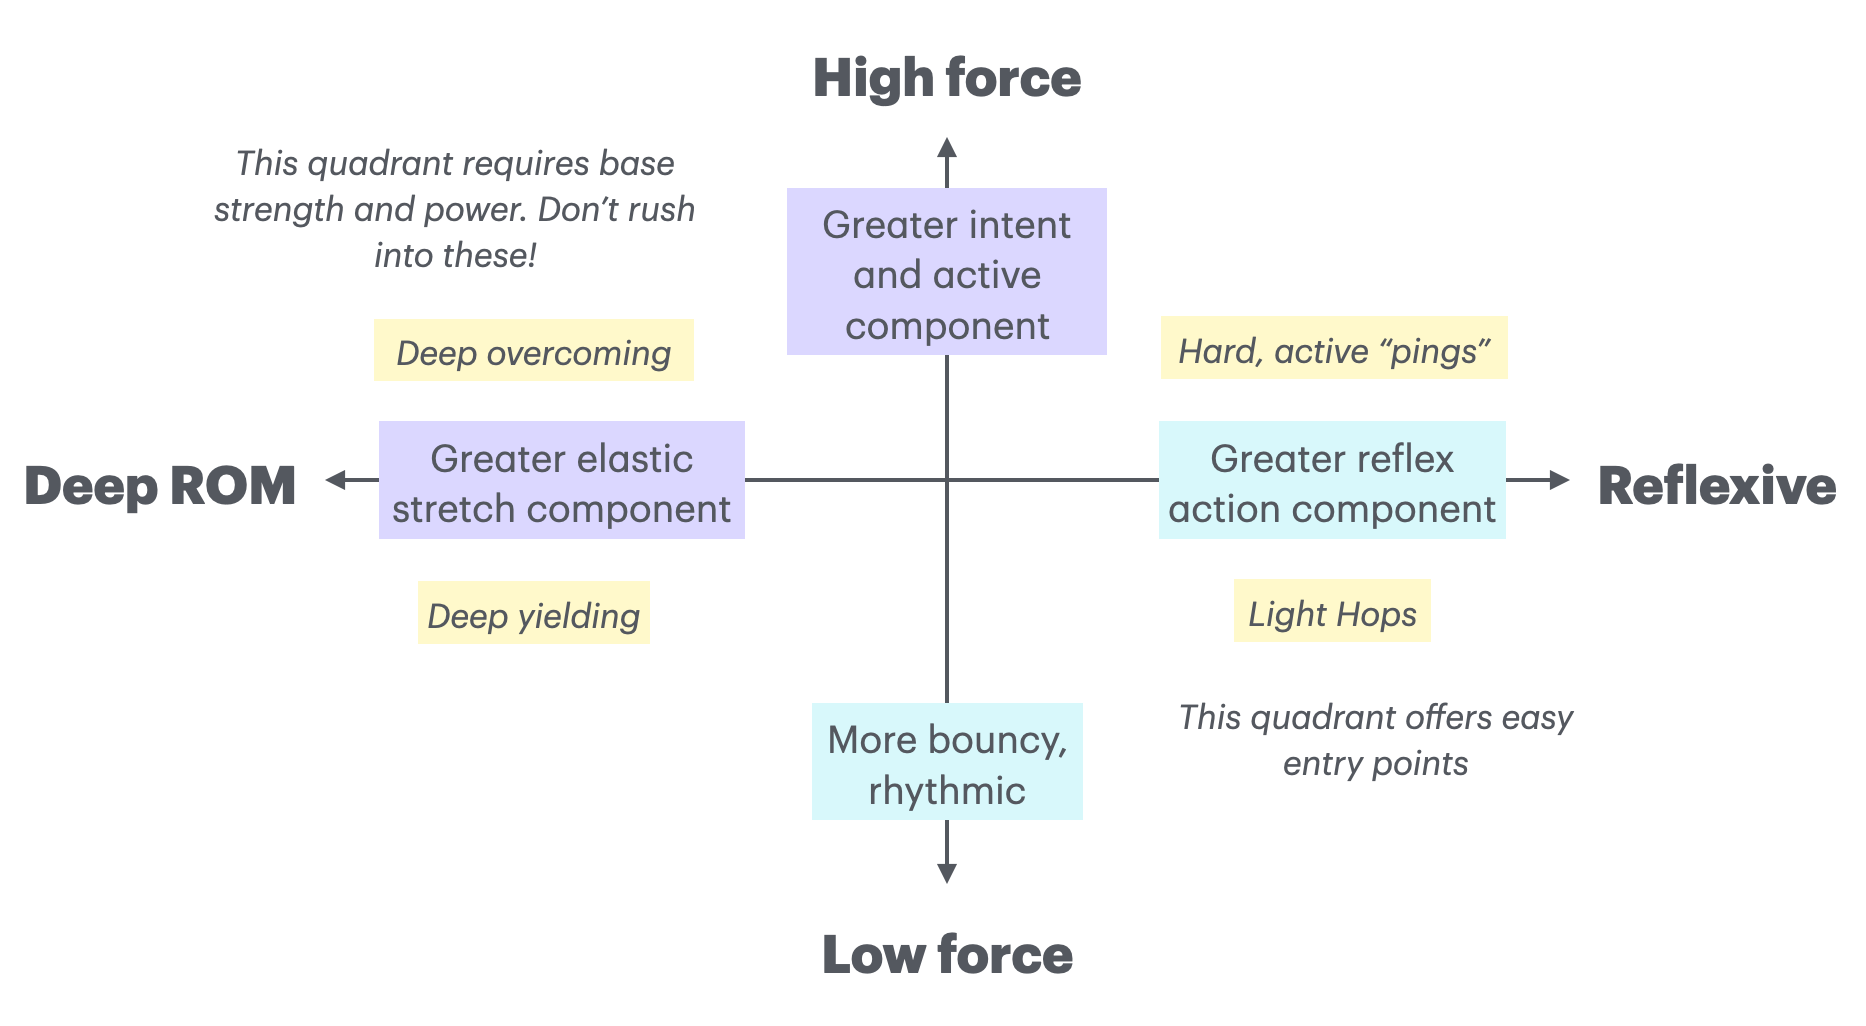
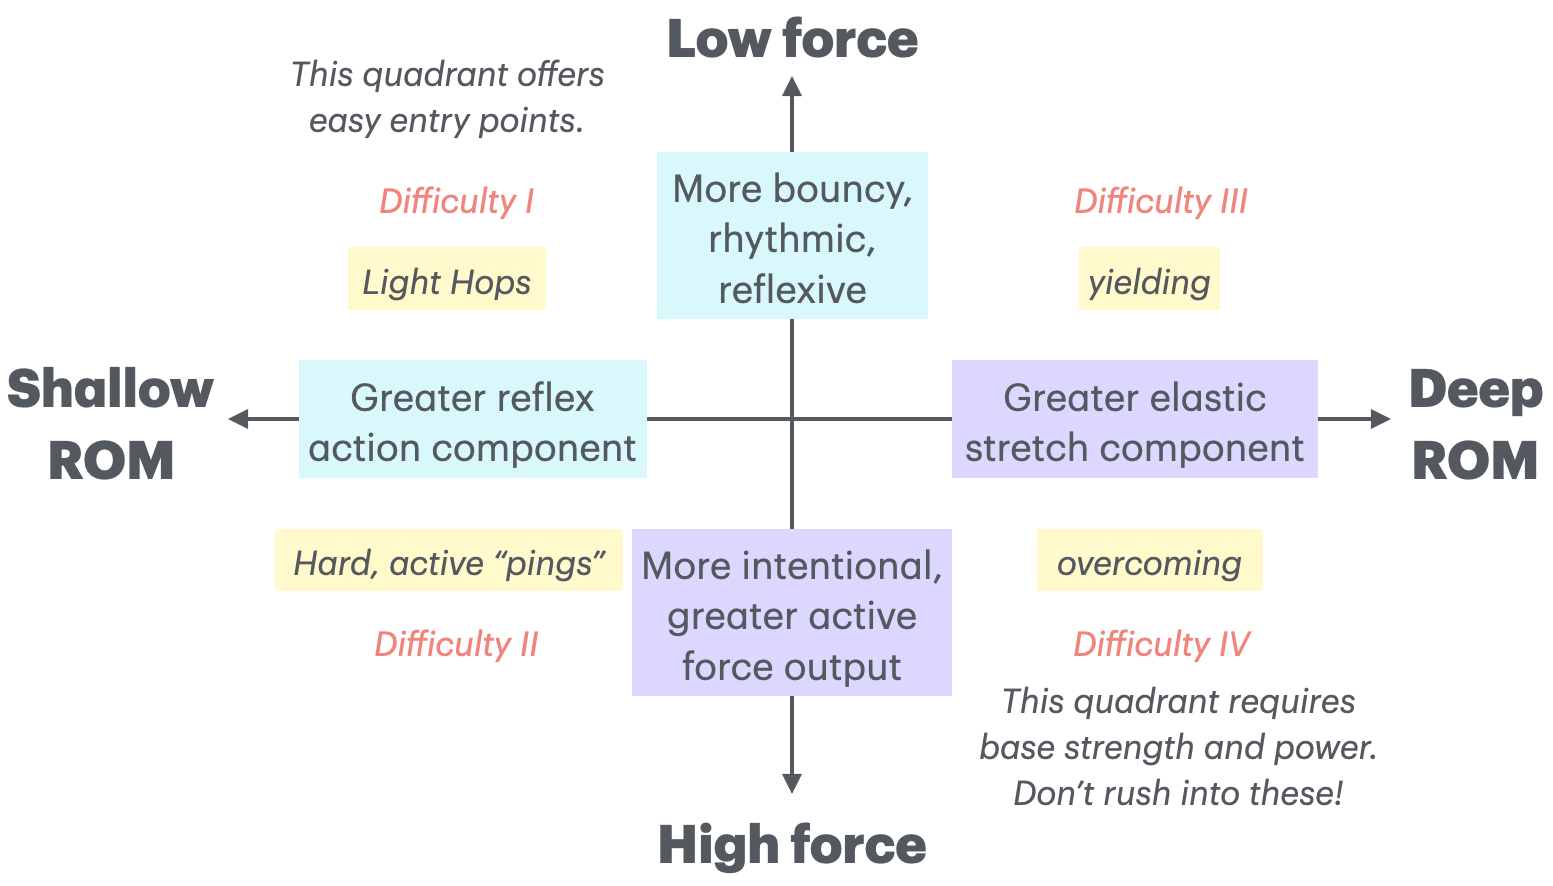
restructured intro, updated plyometrics section

diff --git a/docs/posts/training-foundations/index.html b/docs/posts/training-foundations/index.html
@@ -162,7 +162,7 @@ div.csl-indent {
     <div>
     <div class="quarto-title-meta-heading">Modified</div>
     <div class="quarto-title-meta-contents">
-      <p class="date-modified">January 21, 2025</p>
+      <p class="date-modified">February 5, 2025</p>
     </div>
   </div>
     
@@ -181,7 +181,24 @@ Include an interactive plot with plyometric exercises. Use altair with hyperlink
 <style>
     .concept { background-color: #FFEE70; }
 </style>
-<p>Here I sketch out conceptual building blocks to reason about physical training and construct a basic training plan. These are largely based on my own experience, a standard reference manual for strength and conditioning coaches <span class="citation" data-cites="haff2015essentials">(<a href="#ref-haff2015essentials" role="doc-biblioref">Haff and Triplett 2015</a>)</span>, and a handful of review papers. There are 3 main components for this: cardiovascular-, resistance-, and plyometric training.</p>
+<section id="introduction" class="level2 unnumbered">
+<h2 class="unnumbered anchored" data-anchor-id="introduction">Introduction</h2>
+<p>Exercises are tools to differentially stimulate physiological systems, with an end goal of inducing beneficial adaptations in those systems. As a crude engineering analogy, one can think of physical training as a way to improve capacity, increase co-ordination, and ease bottlenecks in various physiological components and systems:</p>
+<ul>
+<li>hardware (muscle fibers, connective tissue, bone etc.),</li>
+<li>software (nervous system control),</li>
+<li>local fuel storage (intra-cellular stores),</li>
+<li>global fuel storage (adipose tissue, liver etc.),</li>
+<li>systems for oxygen delivery, temperature control, waste clearance etc. (cardio-vascular system, lymphatic system etc.).</li>
+</ul>
+<p>Such adaptations are are reflected in (but not restricted to) performance at specific tasks (e.g.&nbsp;running 400 meters, maximum amount that can be lifted in a squat, etc.).</p>
+<p>My motivation here is general health. When I started thinking about this <a href="https://rhngla.substack.com/p/fitness">a couple of years ago</a>, I didn’t have clear ideas for questions like:</p>
+<ol type="1">
+<li>what exercise to do?</li>
+<li>how much, how often etc.?</li>
+</ol>
+<p>I now have some understanding around these questions. These are largely based on my own experience, a standard reference manual for strength and conditioning coaches <span class="citation" data-cites="haff2015essentials">(<a href="#ref-haff2015essentials" role="doc-biblioref">Haff and Triplett 2015</a>)</span>, and a handful of review papers.</p>
+<p>We’ll break this down into a discussion of 3 main components for this: cardiovascular-, resistance-, and plyometric training.</p>
 <div class="callout callout-style-simple callout-note no-icon">
 <div class="callout-body d-flex">
 <div class="callout-icon-container">
@@ -192,6 +209,7 @@ Include an interactive plot with plyometric exercises. Use altair with hyperlink
 </div>
 </div>
 </div>
+</section>
 <section id="general-notes" class="level2 unnumbered">
 <h2 class="unnumbered anchored" data-anchor-id="general-notes">General notes</h2>
 <ul>
@@ -360,7 +378,7 @@ Examples for different ability levels:
 <ul>
 <li>These movement patterns cover a broad range of muscle groups.</li>
 <li><span class="concept">Prime mover</span> (also known as <span class="concept">agonist</span>) muscle groups across these movements are largely non-overlapping.</li>
-<li>So muscule fatigue from one exercise is less likely to interfere with another exercise that preferentially stimulates a different muscle group.</li>
+<li>So muscle fatigue from one exercise is less likely to interfere with another exercise that preferentially stimulates a different muscle group.</li>
 <li>The ordering of exercise within a session is not too critical for a basic training plan; I personally prefer to do lower body exercises first (squats and hinge patterns here) to prioritise stimulating the bigger muscle groups while my nervous system feels more fresh.</li>
 </ul>
 </section>
@@ -493,7 +511,7 @@ Table&nbsp;2: There is a rough equivalence between Rating of perceived exertion 
 <img src="plyo-classification.png" class="img-fluid figure-img">
 </div>
 <figcaption class="quarto-float-caption-bottom quarto-float-caption quarto-float-fig" id="fig-plyo-classification-caption-0ceaefa1-69ba-4598-a22c-09a6ac19f8ca">
-Figure&nbsp;2: <strong>Plyometric exercise classification:</strong> One can attempt to place exercises on this axis. For example, quick and light <a href="https://www.youtube.com/watch?v=YqLplUCanfw">two-legged pogo hops</a> would be in the bottom right quadrant. <a href="https://www.youtube.com/watch?v=KsWyPw6w2i0">Depth-jump to box</a> can be placed in the top left quadrant. Additional examples can be found in <span class="citation" data-cites="mcinneswatson2024youtube">(<a href="#ref-mcinneswatson2024youtube" role="doc-biblioref">McInnes Watson 2024</a>)</span>
+Figure&nbsp;2: <strong>Plyometric exercise classification:</strong> The range of motion (ROM) and force requirements can be used to conceptually group plyometric exercises. For example, quick and light <a href="https://www.youtube.com/watch?v=YqLplUCanfw">two-legged pogo hops</a> would be in the low active force and shallow ROM quadrant. <a href="https://www.youtube.com/watch?v=KsWyPw6w2i0">Depth-jump to box</a> would be in the high active force and deep ROM quadrant. Additional examples can be found in <span class="citation" data-cites="mcinneswatson2024youtube">(<a href="#ref-mcinneswatson2024youtube" role="doc-biblioref">McInnes Watson 2024</a>)</span>
 </figcaption>
 </figure>
 </div>
@@ -519,15 +537,7 @@ Figure&nbsp;2: <strong>Plyometric exercise classification:</strong> One can atte
 <li>Keep trying related variations (e.g.&nbsp;different exercises, movement ranges, equipment etc.) separate from training, with no or low load. The goal of such exploration is to get a better feel for how movement combinations fit together.</li>
 <li>Performance and fatigue accumulated within any given session depends on background stress / sleep / nutrition etc., so be kind to yourself and focus on consistency in practice over timescales of months and years.</li>
 </ul>
-<p>As a crude engineering analogy, physical training helps to improve capacity, increase co-ordination, and ease bottlenecks in various systems:</p>
-<ul>
-<li>hardware (muscle fiber, connective tissue, bone etc.),</li>
-<li>software (nervous system control),</li>
-<li>local fuel storage (intra-cellular stores),</li>
-<li>global fuel storage (adipose tissue, liver etc.)</li>
-<li>pipelines for oxygen delivery, temperature control, and waste clearance (cardio-vascular system, lactate shuttle etc.).</li>
-</ul>
-<p>Building an understanding of these systems and their inter-dependence would be helpful to gain a more intuitive feel for physiological bottlenecks, desired adaptations, and their relationship to training variables. Video lectures on <a href="https://www.youtube.com/watch?v=X-zQ5hKB_G8&amp;list=PLYn4-aO5V4WPAmGnbcw-Ym7z4N5SCP5SH">this playlist</a> by <a href="https://scholar.google.com/citations?hl=en&amp;user=2f3_Z3cAAAAJ&amp;view_op=list_works&amp;sortby=pubdate">Jacob Goodin</a> could be a good starting point to learn about these topics in the context of strength and conditioning.</p>
+<p>Building an understanding of these physiological systems and their inter-dependence is helpful to gain a more intuitive feel for physiological bottlenecks, desired adaptations, and their relationship to training variables. Video lectures on <a href="https://www.youtube.com/watch?v=X-zQ5hKB_G8&amp;list=PLYn4-aO5V4WPAmGnbcw-Ym7z4N5SCP5SH">this playlist</a> by <a href="https://scholar.google.com/citations?hl=en&amp;user=2f3_Z3cAAAAJ&amp;view_op=list_works&amp;sortby=pubdate">Jacob Goodin</a> can be a good starting point to learn about these topics in the context of strength and conditioning.</p>
 <section id="acknowledgements" class="level3">
 <h3 class="anchored" data-anchor-id="acknowledgements">Acknowledgements</h3>
 <p><a href="https://scholar.google.com/citations?hl=en&amp;user=za1dI8YAAAAJ">Polina Kosillo</a> and <a href="https://scholar.google.com/citations?user=WJeAM74AAAAJ&amp;hl=en">Mayank Sanganeria</a> for discussions.</p>

diff --git a/docs/index.html b/docs/index.html
@@ -231,7 +231,7 @@ Reading Time
 </tr>
 </thead>
 <tbody class="list">
-<tr data-index="0" data-categories="ZnVuZGFtZW50YWxzJTJDcGxhbm5pbmc=" data-listing-date-sort="1724482800000" data-listing-file-modified-sort="1737447849891" data-listing-date-modified-sort="1737447849000" data-listing-reading-time-sort="15" data-listing-word-count-sort="2968" data-listing-title-sort="Physical training foundations" data-listing-filename-sort="index.qmd">
+<tr data-index="0" data-categories="ZnVuZGFtZW50YWxzJTJDcGxhbm5pbmc=" data-listing-date-sort="1724482800000" data-listing-file-modified-sort="1738806184794" data-listing-date-modified-sort="1738806184000" data-listing-reading-time-sort="16" data-listing-word-count-sort="3071" data-listing-title-sort="Physical training foundations" data-listing-filename-sort="index.qmd">
 <td>
 <span class="listing-date">Aug 24, 2024</span>
 </td>
@@ -242,7 +242,7 @@ Reading Time
 <span class="listing-author">Rohan Gala</span>
 </td>
 <td>
-<span class="listing-reading-time">15 min</span>
+<span class="listing-reading-time">16 min</span>
 </td>
 </tr>
 </tbody>
